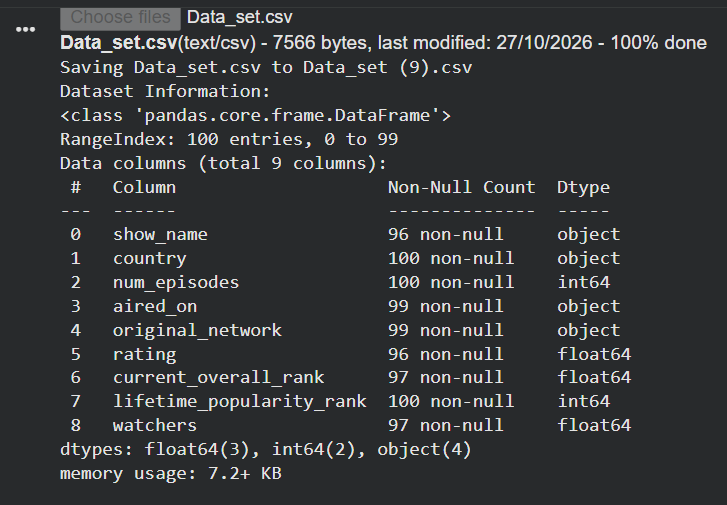
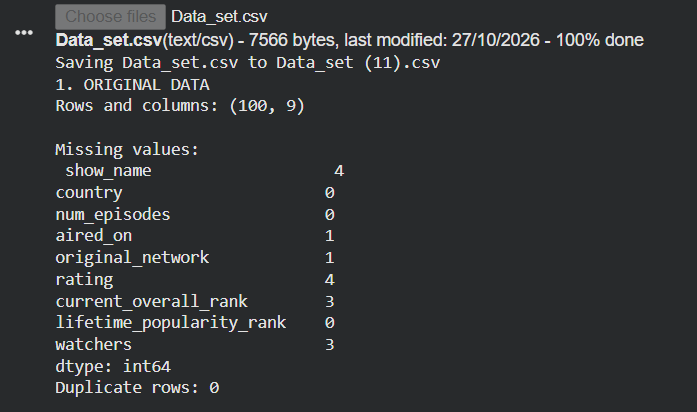
first

diff --git a/README.md b/README.md
@@ -25,46 +25,57 @@ STEP 6: Use zscore of to remove outliers
 # Data_set.csv
 
 ```
+
 import pandas as pd
 from scipy import stats
 from google.colab import files
 
 uploaded = files.upload()
 filename = next(iter(uploaded))
-
 df = pd.read_csv(filename)
 
-print("Dataset Information:")
-df.info()
+print("1. ORIGINAL DATA")
+print("Rows and columns:", df.shape)
+print("\nMissing values:\n", df.isnull().sum())
+print("Duplicate rows:", df.duplicated().sum())
 
-print("\nNull Values:")
-print(df.isnull().sum())
-
-df = df.dropna()
-df.to_csv("Cleaned_data.csv", index=False)
+df = df.dropna().drop_duplicates()
+print("\n2. DATA CLEANING")
+print("Missing values and duplicates removed.")
+print("Rows after cleaning:", len(df))
 
 num = df.select_dtypes(include="number")
+
 if not num.empty:
-    Q1 = num.quantile(0.25)
-    Q3 = num.quantile(0.75)
+    Q1, Q3 = num.quantile(0.25), num.quantile(0.75)
     IQR = Q3 - Q1
-
-    df = df[~((num < Q1 - 1.5 * IQR) |
-              (num > Q3 + 1.5 * IQR)).any(axis=1)]
+    iqr_outliers = ((num < Q1 - 1.5 * IQR) |
+                    (num > Q3 + 1.5 * IQR)).any(axis=1)
+    print("\n3. IQR OUTLIER DETECTION")
+    print("Outlier rows detected:", iqr_outliers.sum())
+    df = df.loc[~iqr_outliers].copy()
+    print("Rows after IQR removal:", len(df))
 
 num = df.select_dtypes(include="number")
+
 if not num.empty and len(num) > 1:
     z = pd.DataFrame(stats.zscore(num), columns=num.columns,
                      index=num.index)
-    df = df[(z.abs() < 3).all(axis=1)]
+    z_outliers = (z.abs() > 3).any(axis=1)
+    print("\n4. Z-SCORE OUTLIER DETECTION")
+    print("Outlier rows detected:", z_outliers.sum())
+    df = df.loc[~z_outliers].copy()
+    print("Rows after Z-score removal:", len(df))
 
 df.to_csv("Final_cleaned_data.csv", index=False)
 
-print("\nFinal Cleaned Data:")
-print(df)
-print("\nFinal Shape:", df.shape)
+print("\n5. FINAL RESULT")
+print("Final dataset shape:", df.shape)
+print(df.head())
+print("\nFinal cleaned file saved successfully.")
 
 files.download("Final_cleaned_data.csv")
+
 ```
 
 ![alt text](image.png)
@@ -73,56 +84,64 @@ files.download("Final_cleaned_data.csv")
 
 ![alt text](image-2.png)
 
-![alt text](image-3.png)
-
 # heights.csv 
 
 ```
+
 import pandas as pd
 from scipy import stats
 from google.colab import files
 
 uploaded = files.upload()
 filename = next(iter(uploaded))
-
 df = pd.read_csv(filename)
 
-print("Dataset Information:")
-df.info()
+print("1. ORIGINAL DATA")
+print("Rows and columns:", df.shape)
+print("\nMissing values:\n", df.isnull().sum())
+print("Duplicate rows:", df.duplicated().sum())
 
-print("\nNull Values:")
-print(df.isnull().sum())
-
-df = df.dropna()
-df.to_csv("Cleaned_data.csv", index=False)
+df = df.dropna().drop_duplicates()
+print("\n2. DATA CLEANING")
+print("Missing values and duplicates removed.")
+print("Rows after cleaning:", len(df))
 
 num = df.select_dtypes(include="number")
+
 if not num.empty:
-    Q1 = num.quantile(0.25)
-    Q3 = num.quantile(0.75)
+    Q1, Q3 = num.quantile(0.25), num.quantile(0.75)
     IQR = Q3 - Q1
-
-    df = df[~((num < Q1 - 1.5 * IQR) |
-              (num > Q3 + 1.5 * IQR)).any(axis=1)]
+    iqr_outliers = ((num < Q1 - 1.5 * IQR) |
+                    (num > Q3 + 1.5 * IQR)).any(axis=1)
+    print("\n3. IQR OUTLIER DETECTION")
+    print("Outlier rows detected:", iqr_outliers.sum())
+    df = df.loc[~iqr_outliers].copy()
+    print("Rows after IQR removal:", len(df))
 
 num = df.select_dtypes(include="number")
+
 if not num.empty and len(num) > 1:
     z = pd.DataFrame(stats.zscore(num), columns=num.columns,
                      index=num.index)
-    df = df[(z.abs() < 3).all(axis=1)]
+    z_outliers = (z.abs() > 3).any(axis=1)
+    print("\n4. Z-SCORE OUTLIER DETECTION")
+    print("Outlier rows detected:", z_outliers.sum())
+    df = df.loc[~z_outliers].copy()
+    print("Rows after Z-score removal:", len(df))
 
 df.to_csv("Final_cleaned_data.csv", index=False)
 
-print("\nFinal Cleaned Data:")
-print(df)
-print("\nFinal Shape:", df.shape)
+print("\n5. FINAL RESULT")
+print("Final dataset shape:", df.shape)
+print(df.head())
+print("\nFinal cleaned file saved successfully.")
 
 files.download("Final_cleaned_data.csv")
+
 ```
+![alt text](image-3.png)
 
 ![alt text](image-4.png)
-
-![alt text](image-5.png)
 
 # Result
 The given data has been successfully read, cleaned by handling duplicates and missing values, and saved to a new file.
